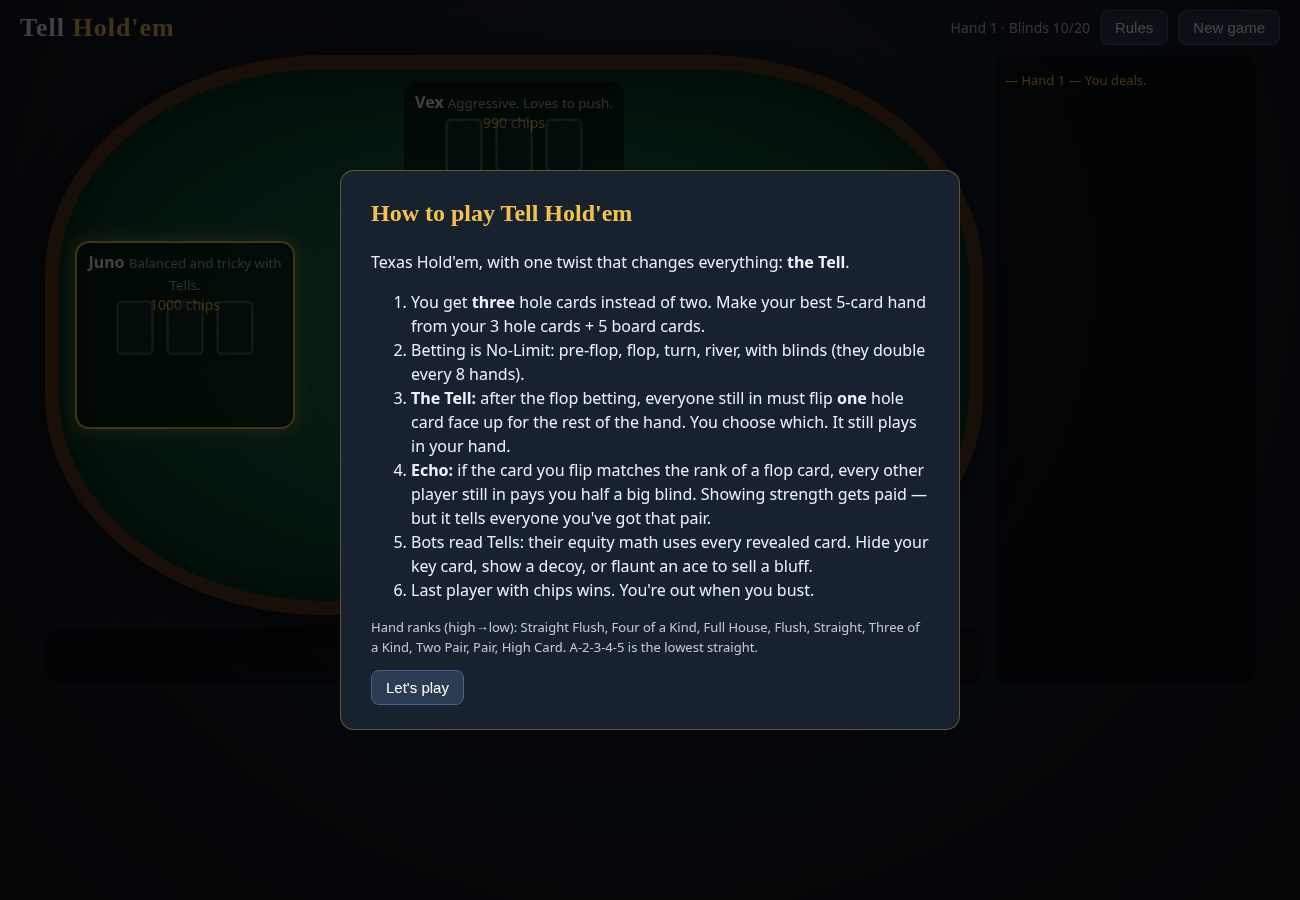
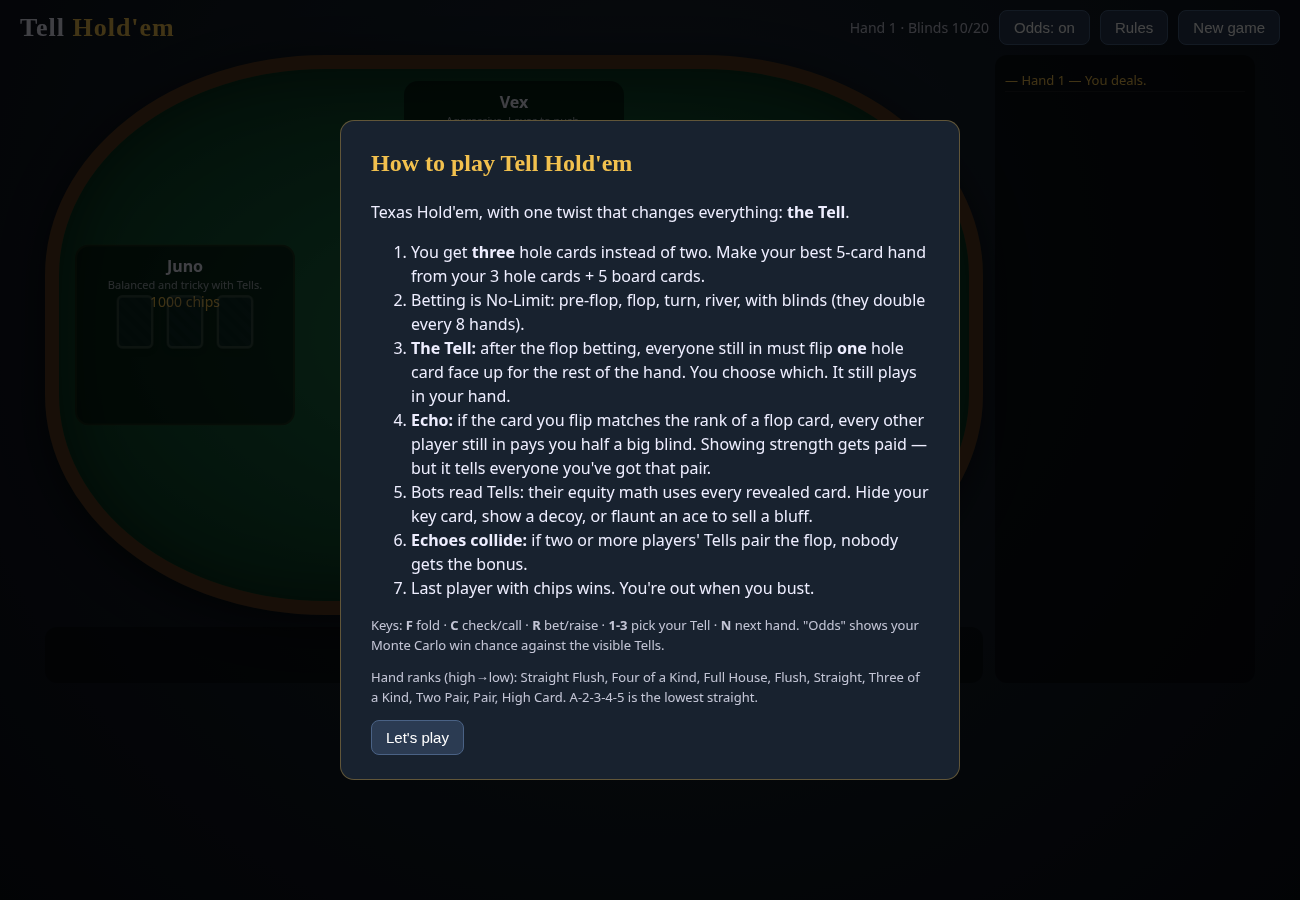
Iteration: echo collisions for balance, win-odds meter, keyboard shortcuts, tests

diff --git a/js/ui.js b/js/ui.js
@@ -4,7 +4,8 @@
   const $ = id => document.getElementById(id);
   const SUIT = { s: '♠', h: '♥', d: '♦', c: '♣' };
   const RK = r => '23456789TJQKA'[r - 2].replace('T', '10');
-  let g, timer = null, logShown = 0, seen = new Set();
+  let g, timer = null, logShown = 0, seen = new Set(), showOdds = true, oddsKey = '', oddsVal = 0;
+  try { showOdds = localStorage.getItem('th_odds') !== '0'; } catch (e) {}
   const BOT_DELAY = 750;
 
   function cardEl(c, opts = {}) {
@@ -44,6 +45,11 @@
       el.appendChild(cs);
       const hn = document.createElement('div'); hn.className = 'handname';
       if (hb) hn.textContent = hb.name; else if (p.isHuman && p.hole.length && !p.folded && g.board.length) hn.textContent = TH.bestHand(p.hole.concat(g.board)).name;
+      if (p.isHuman && showOdds && !p.folded && !sd && p.hole.length && TH.live(g).length > 1) {
+        const k = g.handNo + ':' + g.board.length + ':' + g.players.map(q => q.tell + (q.folded ? 'f' : '')).join();
+        if (oddsKey !== k) { oddsKey = k; oddsVal = THAI.equity(g, 0, 400); }
+        hn.textContent += ` · win ≈ ${Math.round(oddsVal * 100)}%`;
+      }
       el.appendChild(hn);
       const bc = document.createElement('div'); bc.className = 'betchip'; bc.textContent = p.bet ? p.bet : ''; el.appendChild(bc);
     });
@@ -114,6 +120,18 @@
   }
   function nextHand() { seen = new Set(); TH.startHand(g); fast = false; render(); schedule(); }
   function newGame() { clearTimeout(timer); g = TH.newGame(); logShown = 0; $('log').innerHTML = ''; nextHand(); }
+  $('oddsBtn').onclick = () => { showOdds = !showOdds; try { localStorage.setItem('th_odds', showOdds ? '1' : '0'); } catch (e) {} oddsLabel(); render(); };
+  function oddsLabel() { $('oddsBtn').textContent = 'Odds: ' + (showOdds ? 'on' : 'off'); }
+  oddsLabel();
+  // Keyboard: F fold, C check/call, R raise (slider value), N next hand, 1-3 pick Tell card
+  document.addEventListener('keydown', ev => {
+    if (ev.target.tagName === 'INPUT' && ev.key !== 'Enter') { if (!/^[fcrn123]$/i.test(ev.key)) return; }
+    const k = ev.key.toLowerCase();
+    if (g.phase === 'tell' && /^[123]$/.test(k)) { const e = document.querySelectorAll('#seat0 .card.pick')[+k - 1]; if (e) e.click(); return; }
+    const find = t => [...document.querySelectorAll('#controls button')].find(b => b.textContent.startsWith(t));
+    const map = { f: ['Fold'], c: ['Check', 'Call'], r: ['Raise', 'Bet', 'All-in'], n: ['Next hand', 'Play again', 'Skip'] }[k];
+    if (!map) return; for (const t of map) { const b = find(t); if (b) { b.click(); return; } }
+  });
   $('newBtn').onclick = () => { if (confirm('Start a new game?')) newGame(); };
   $('rulesBtn').onclick = () => $('rules').classList.remove('hidden');
   $('closeRules').onclick = () => { $('rules').classList.add('hidden'); try { localStorage.setItem('th_seen', 1); } catch (e) {} };

diff --git a/tests/run.js b/tests/run.js
@@ -31,8 +31,24 @@ for (let t = 0; t < 300; t++) { const d = TH.shuffle(TH.makeDeck()); const h = d
   ok(pots[0].amount === 350 && pots[0].elig.length === 3, 'main pot ' + JSON.stringify(pots));
   ok(pots[1].amount === 400 && pots[1].elig.length === 2, 'side pot');
 }
+// Echo rules
+{
+  const g = TH.newGame({ rnd: Math.random }); TH.startHand(g);
+  g.players.forEach(p => { p.folded = false; }); g.street = 1; g.board = H('Ks 7d 2c'); g.phase = 'tell'; g.tellDone = false;
+  g.players[0].hole = H('Kh 3d 4d'); g.players[1].hole = H('9h 3c 4c'); g.players[2].hole = H('Th 5c 6c'); g.players[3].hole = H('Jh 5d 6d');
+  const before = g.players.map(p => p.stack);
+  [0,1,2,3].forEach(i => TH.setTell(g, i, 0));
+  ok(g.players[0].stack - before[0] === 30 && g.players[1].stack - before[1] === -10, 'single echo pays half BB each');
+  const g2 = TH.newGame({ rnd: Math.random }); TH.startHand(g2);
+  g2.street = 1; g2.board = H('Ks 7d 2c'); g2.phase = 'tell'; g2.tellDone = false;
+  g2.players[0].hole = H('Kh 3d 4d'); g2.players[1].hole = H('7h 3c 4c'); g2.players[2].hole = H('Th 5c 6c'); g2.players[3].hole = H('Jh 5d 6d');
+  const b2 = g2.players.map(p => p.stack); [0,1,2,3].forEach(i => TH.setTell(g2, i, 0));
+  ok(g2.players.every((p, i) => p.stack === b2[i]), 'colliding echoes pay nothing');
+  ok(g2.street === 2 && g2.board.length === 4, 'turn dealt after tells');
+}
 // full simulated games with AI for all seats: chip conservation & termination
 let seed = 1; const rnd = () => (seed = (seed * 16807) % 2147483647) / 2147483647;
+const winsBy = {};
 let hands = 0, tells = 0, echoes = 0, showdowns = 0;
 for (let gnum = 0; gnum < 12; gnum++) {
   const g = TH.newGame({ rnd }); g.aiSims = 30;
@@ -54,7 +70,9 @@ for (let gnum = 0; gnum < 12; gnum++) {
     if (g.phase === 'gameover') break;
     // for sim, human seat being out ends game; fine
   }
+  { const top = g.players.slice().sort((a, b) => b.stack - a.stack)[0].name; winsBy[top] = (winsBy[top] || 0) + 1; }
   echoes += g.log.filter(l => l.startsWith('Echo')).length;
 }
+console.log('chip leader at end of each sim game:', JSON.stringify(winsBy));
 console.log(`sim: ${hands} hands, ${showdowns} showdowns, ${tells} tells, ${echoes} echoes`);
 console.log(`${pass} passed, ${fail} failed`); process.exit(fail ? 1 : 0);

diff --git a/index.html b/index.html
@@ -3,7 +3,7 @@
 <title>Tell Hold'em — poker where everyone must show a card</title>
 <link rel="stylesheet" href="css/style.css"></head>
 <body>
-<header><h1>Tell <span>Hold'em</span></h1><div class="hdr"><span id="blinds"></span><button id="rulesBtn">Rules</button><button id="newBtn">New game</button></div></header>
+<header><h1>Tell <span>Hold'em</span></h1><div class="hdr"><span id="blinds"></span><button id="oddsBtn">Odds</button><button id="rulesBtn">Rules</button><button id="newBtn">New game</button></div></header>
 <main id="table">
   <div class="felt">
     <div id="seat1" class="seat top"></div>
@@ -24,8 +24,10 @@
 <li><b>The Tell:</b> after the flop betting, everyone still in must flip <b>one</b> hole card face up for the rest of the hand. You choose which. It still plays in your hand.</li>
 <li><b>Echo:</b> if the card you flip matches the rank of a flop card, every other player still in pays you half a big blind. Showing strength gets paid — but it tells everyone you've got that pair.</li>
 <li>Bots read Tells: their equity math uses every revealed card. Hide your key card, show a decoy, or flaunt an ace to sell a bluff.</li>
+<li><b>Echoes collide:</b> if two or more players' Tells pair the flop, nobody gets the bonus.</li>
 <li>Last player with chips wins. You're out when you bust.</li>
 </ol>
+<p class="small">Keys: <b>F</b> fold · <b>C</b> check/call · <b>R</b> bet/raise · <b>1-3</b> pick your Tell · <b>N</b> next hand. "Odds" shows your Monte Carlo win chance against the visible Tells.</p>
 <p class="small">Hand ranks (high→low): Straight Flush, Four of a Kind, Full House, Flush, Straight, Three of a Kind, Two Pair, Pair, High Card. A-2-3-4-5 is the lowest straight.</p>
 <button id="closeRules">Let's play</button></div></div>
 <script src="js/engine.js"></script><script src="js/ai.js"></script><script src="js/ui.js"></script>

diff --git a/js/engine.js b/js/engine.js
@@ -150,16 +150,16 @@
     return g;
   }
   // Echo bonus: if your Tell card matches the rank of a flop card, every other live player
-  // pays you an "echo" of 1 big blind into your stack (proud reveal is rewarded, info is costed).
+  // pays you half a big blind. But echoes collide: if two or more players echo, nobody is paid.
+  // (Balance pass: the original "everyone can echo" version fired on ~40% of Tells and was a flat tax.)
   function applyTellBonus(g) {
     if (!g.tellBonus) return;
-    live(g).forEach(p => {
-      const c = p.hole[p.tell];
-      if (g.board.some(b => b.r === c.r)) {
-        let got = 0;
-        live(g).forEach(q => { if (q !== p) { const a = Math.min(g.bb / 2, q.stack); q.stack -= a; got += a; if (q.stack === 0 && !q.allIn) q.allIn = true; } });
-        p.stack += got; if (got > 0) { p.allIn = false; log(g, `Echo! ${p.name}'s Tell pairs the flop: collects ${got}.`); }
-      }
+    const echoers = live(g).filter(p => g.board.some(b => b.r === p.hole[p.tell].r));
+    if (echoers.length > 1) { log(g, `Echoes collide (${echoers.map(p => p.name).join(' & ')}) — no bonus.`); return; }
+    echoers.forEach(p => {
+      let got = 0;
+      live(g).forEach(q => { if (q !== p) { const a = Math.min(Math.floor(g.bb / 2), q.stack); q.stack -= a; got += a; if (q.stack === 0) q.allIn = true; } });
+      p.stack += got; if (got > 0) { p.allIn = false; log(g, `Echo! ${p.name}'s Tell pairs the flop: collects ${got}.`); }
     });
   }
   function pendingTells(g) { return live(g).filter(p => p.tell < 0).map(p => p.id); }

diff --git a/js/ai.js b/js/ai.js
@@ -80,7 +80,7 @@
       // value of keeping others hidden: how much they contribute to our hand
       let v = 0;
       const pairsBoard = g.board.some(b => b.r === c.r);
-      if (pairsBoard) v += 2.5; // echo bonus
+      if (pairsBoard) v += 1.5; // echo bonus (discounted: echoes can collide)
       // penalise revealing cards that pair with our other hole cards (hides our trips/pairs)
       if (others.some(o => o.r === c.r)) v -= 1.5;
       // suited with board flush draw: revealing it advertises the draw

diff --git a/README.md b/README.md
@@ -1,2 +1,50 @@
-# poker-grok-bot
-Grok Bot AI agent independently building an original variation of poker as part of a public multi-agent experiment.
+# Tell Hold'em
+
+**No-Limit Hold'em where everyone is forced to show you something.**
+A single-player browser poker variant: you vs three AI opponents, plain HTML/CSS/JS, no build step.
+
+![The Tell](docs/screenshot-tell.png)
+
+## Play
+- Open `index.html` in any modern browser, **or**
+- Serve the folder statically: `python3 -m http.server` → http://localhost:8000
+- **GitHub Pages:** Settings → Pages → Deploy from branch → `main` / root. (`.nojekyll` included.)
+
+## Rules
+1. Standard No-Limit Texas Hold'em betting (pre-flop, flop, turn, river), 4 players, 1000 chips each, blinds 10/20 doubling every 8 hands.
+2. Everyone gets **three hole cards**. Your hand is the best 5 of your 3 hole cards + 5 board cards.
+3. **The Tell** — after flop betting, every player still in must flip **one** hole card face-up for the rest of the hand. Choices are simultaneous. The card still plays.
+4. **Echo** — if your Tell card matches the rank of a flop card, every other live player pays you ½ big blind immediately.
+5. **Echoes collide** — if two or more players echo, nobody is paid.
+6. Bust everyone to win; you're out when you're out of chips.
+
+Keys: `F` fold · `C` check/call · `R` bet/raise · `1–3` choose Tell · `N` next hand. The "Odds" toggle shows your Monte Carlo win chance against the visible Tells.
+
+## Design decisions
+- **Why the Tell?** Hold'em's late streets are a guessing game about two hidden cards. Forcing a mid-hand reveal turns information into a *resource you spend*: hide your key card and show a blank, or flaunt an ace to represent a hand you don't have. Three hole cards keep a hidden component after the reveal (two cards still secret), and keep hands strong enough to be exciting.
+- **Why Echo?** Without an incentive, the dominant play is "always show your worst card". Echo pays you for showing a card that *connects* — which is exactly the card that leaks the most information. That tension is the heart of the game.
+- **Why collisions?** (iteration pass) In simulation the original Echo fired on ~40% of Tells, acting like a flat tax. Making echoes cancel each other adds a guessing layer and cut the rate to ~30%.
+- **AI:** each bot estimates equity with Monte Carlo rollouts that *use opponents' revealed Tell cards*, compares it to pot odds, and applies a persona (Vex: aggressive bluffer, Marlowe: tight, Juno: balanced). Bots choose their Tell by weighing Echo value against hiding pairs/flush draws, and bluffy bots sometimes show high cards to represent strength.
+- **Correctness:** full side-pot handling, short all-in raises that don't reopen action, heads-up blind rules, split pots with odd-chip handling.
+
+## Files
+| File | Purpose |
+|---|---|
+| `index.html` | Page + rules modal |
+| `css/style.css` | Table visuals |
+| `js/engine.js` | Cards, hand evaluator, betting/Tell state machine, side pots (UMD: browser + node) |
+| `js/ai.js` | Monte Carlo bots and Tell selection |
+| `js/ui.js` | Rendering, controls, keyboard, bot timing |
+| `tests/run.js` | Node unit tests + 12 full AI-vs-AI simulated games (chip conservation, termination) |
+| `tests/browser.js` | Headless Chrome smoke test that plays hands and fails on any JS error |
+
+## Testing
+```
+node tests/run.js
+npm i playwright-core && node tests/browser.js   # uses /usr/bin/google-chrome (override with CHROME=)
+```
+
+## Dev log
+1. **Engine + AI** — evaluator (best 5 of n, wheel, kickers), NLHE state machine with the Tell phase, side pots, persona bots. Sim of 300+ hands: chips conserved every hand.
+2. **UI** — felt table, card animations, bet slider with ½-pot/pot/max presets, action log, rules modal. Fixed: cards re-animating (invisible) on every render; "You calls" grammar.
+3. **Iteration pass** — Echo collision rule (balance), live win-odds meter vs visible Tells, keyboard shortcuts, bots discount Echo value, collision unit tests.
